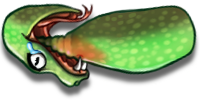
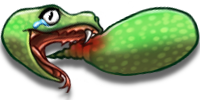
endgame

diff --git a/js/script.js b/js/script.js
@@ -87,6 +87,14 @@ var explosion = new $.gameQuery.Animation({
 	delta: 100,
 	rate: 100,
 	type: $.gameQuery.ANIMATION_VERTICAL | $.gameQuery.ANIMATION_ONCE
+
+});
+var snakeend = new $.gameQuery.Animation({
+	imageURL: 'img/snake_end.png',
+	numberOfFrame: 1,
+	delta: 200,
+	rate: 0,
+	type: $.gameQuery.ANIMATION_VERTICAL
 });
 var snakeanimations = {
 	'bigtail' : new $.gameQuery.Animation({ 
@@ -184,6 +192,15 @@ var snakeanimations = {
 	}),
 };
 
+function endgame(){
+	$("#ring").addSprite(
+		"snakeend", {animation: snakeend, width: 200, height: 100}
+	);
+	$("#snakeend").css("top", PLAYGROUND_HEIGHT-100).css("left", "50%").css("margin-left", "-100px");
+	$("#bighead").hide();
+	$("#bigtail").hide();
+	endlevel.play();
+}
 
 function setSnakeRotation(idx)
 {
